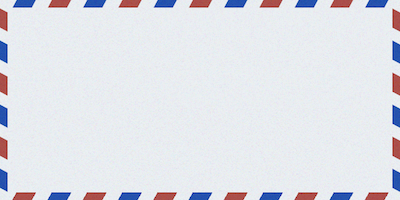
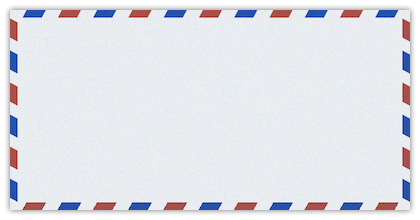
MessageBox 使用带阴影的边框

Changed region(s): [[0.0, 0.0, 1.0, 1.0]]

diff --git a/TopWindow/gui/MessageBox.h b/TopWindow/gui/MessageBox.h
@@ -36,11 +36,11 @@ public:
      * @param borderImageVerticalStretch
      */
     static void message(const QString &msg, int width = 300, int height = 150,
-                        const QMargins &windowPaddings     = QMargins(4, 4, 4, 4),
-                        const QMargins &borderImageBorders = QMargins(8, 8, 8, 8),
+                        const QMargins &windowPaddings     = QMargins(13, 13, 13, 13),
+                        const QMargins &borderImageBorders = QMargins(18, 18, 18, 18),
                         const QString  &borderImagePath    = QString(":/image/top-window/colorful-border.png"),
-                        bool  borderImageHorizontalStretch = true,
-                        bool  borderImageVerticalStretch   = true);
+                        bool  borderImageHorizontalStretch = false,
+                        bool  borderImageVerticalStretch   = false);
 
     /**
      * @brief 显示模态确认对话框，会阻塞当前线程。
@@ -59,11 +59,11 @@ public:
      * @return 点击确认返回 true，点击取消返回 false
      */
     static bool confirm(const QString &msg, int width = 300, int height = 150,
-                        const QMargins &windowPaddings     = QMargins(4, 4, 4, 4),
-                        const QMargins &borderImageBorders = QMargins(8, 8, 8, 8),
+                        const QMargins &windowPaddings     = QMargins(13, 13, 13, 13),
+                        const QMargins &borderImageBorders = QMargins(18, 18, 18, 18),
                         const QString  &borderImagePath    = QString(":/image/top-window/colorful-border.png"),
-                        bool  borderImageHorizontalStretch = true,
-                        bool  borderImageVerticalStretch   = true);
+                        bool  borderImageHorizontalStretch = false,
+                        bool  borderImageVerticalStretch   = false);
 
 private:
     static void setWindowForMessageBox(TopWindow *window, int width, int height); // 设置 TopWindow 的属性

diff --git a/TopWindow/main.cpp b/TopWindow/main.cpp
@@ -10,7 +10,7 @@ int main(int argc, char *argv[]) {
     QApplication app(argc, argv);
 
     DemoWidget *demoWidget = new DemoWidget();
-    TopWindow window(demoWidget);//, {4, 4, 4, 4}, {8, 8, 8, 8}, ":/image/top-window/colorful-border.png");
+    TopWindow window(demoWidget); //, {8,8,8,8}, {18, 18, 18, 18}, ":/image/top-window/colorful-border.png");
     window.resize(600, 500);
     window.show();
 
